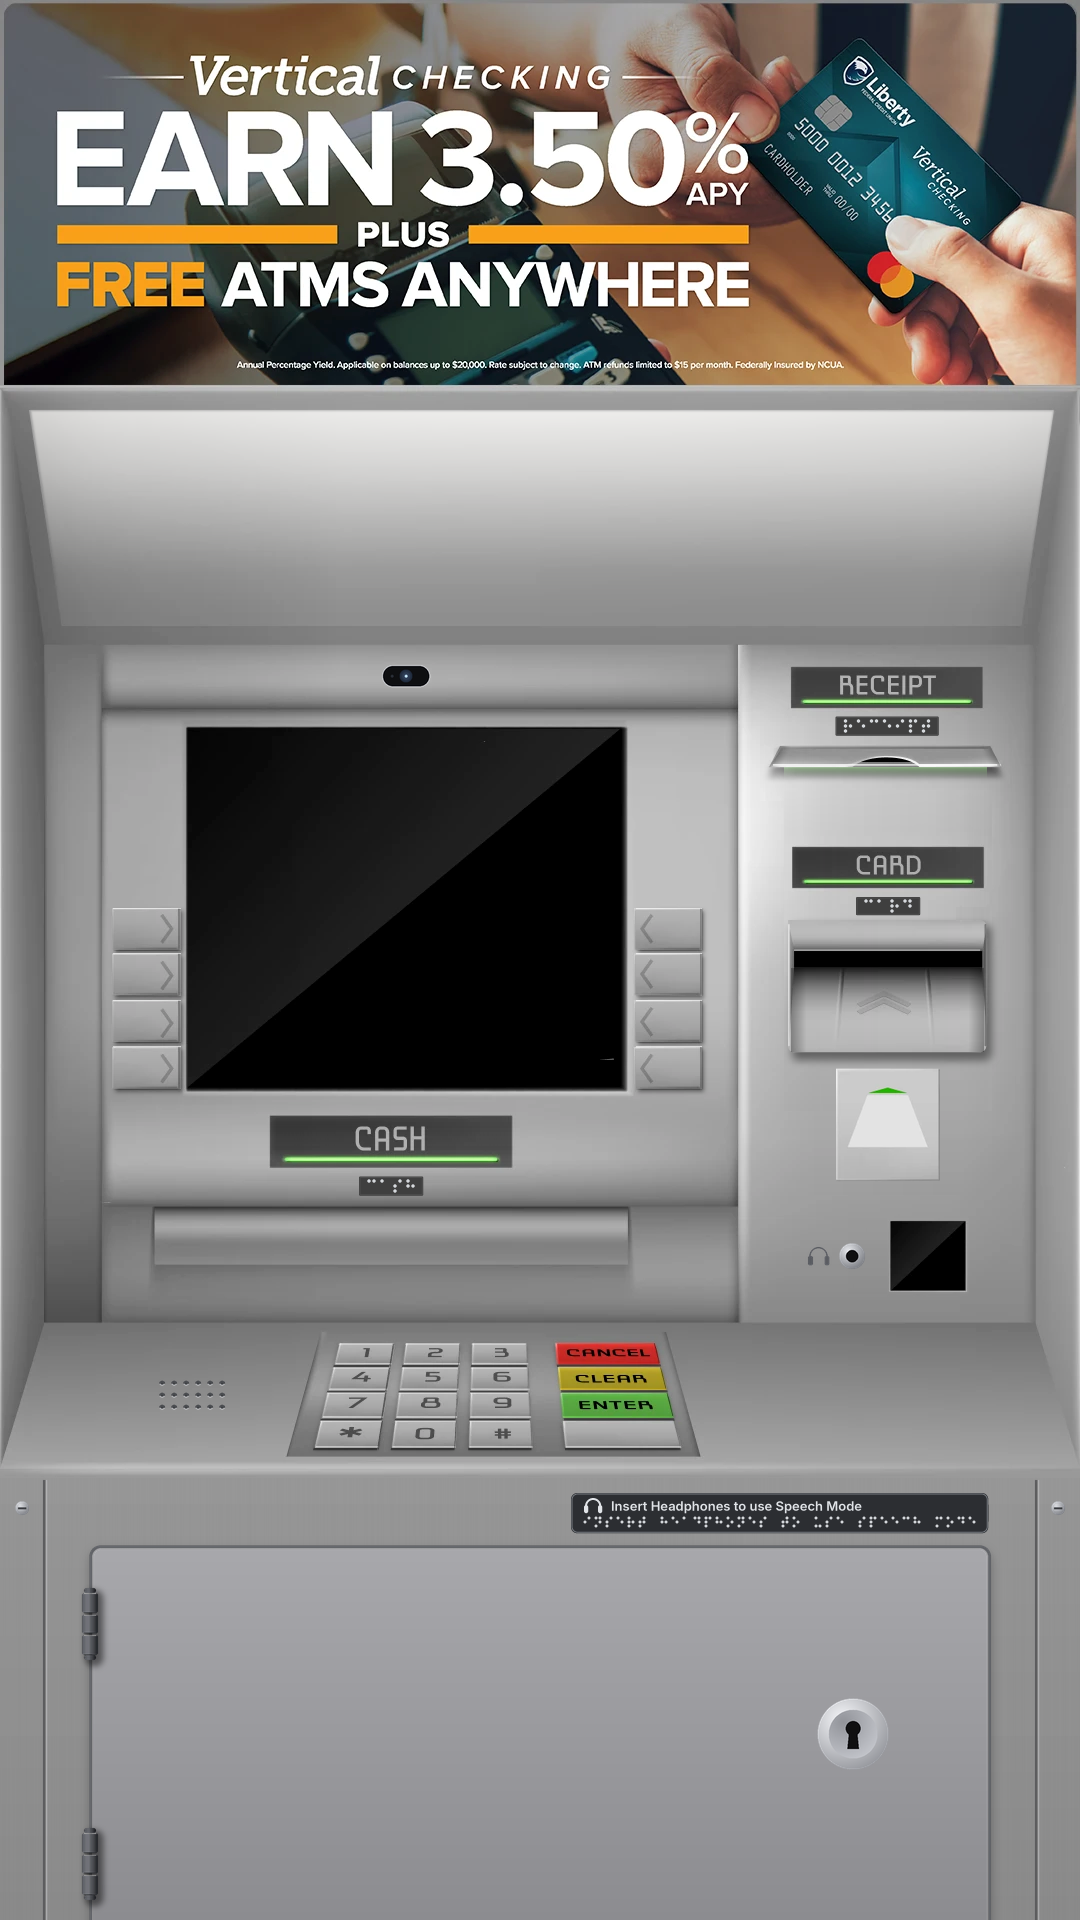
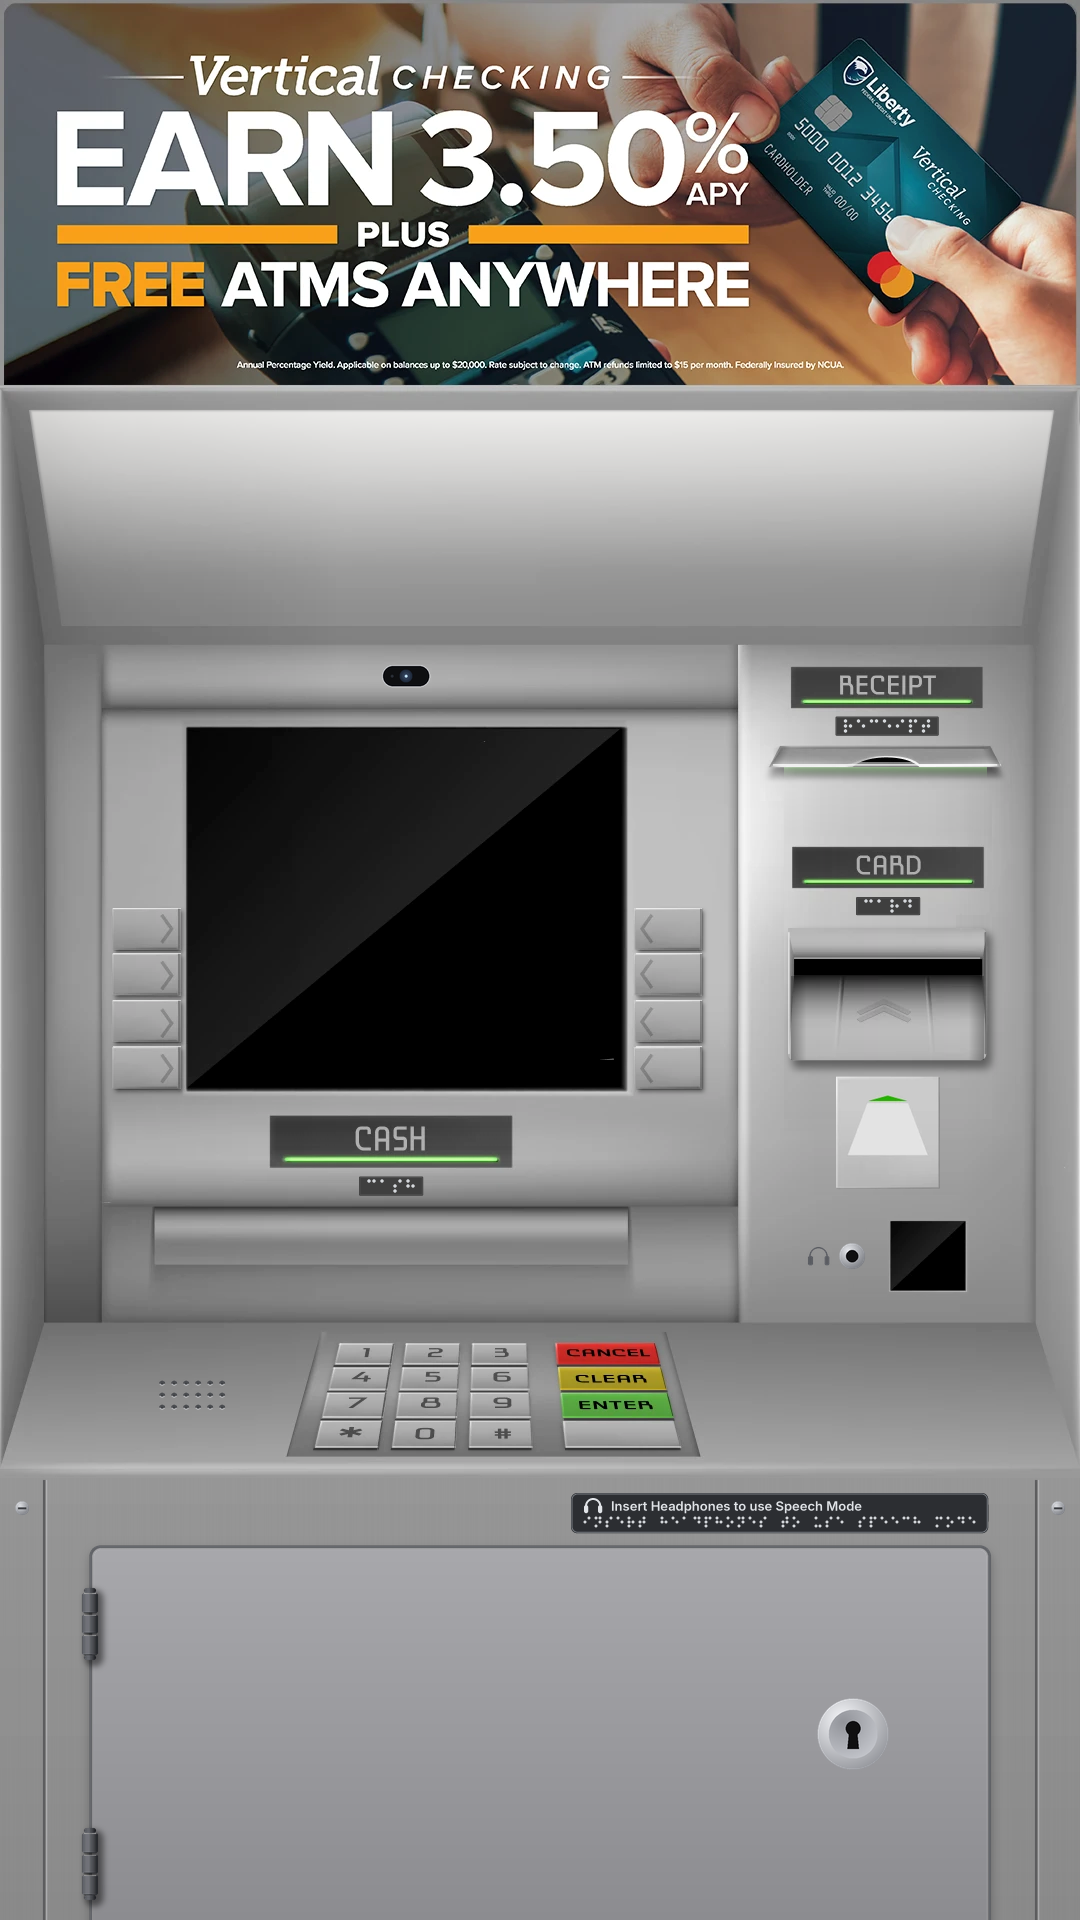
ATM: card slot 8 px lower, clear of the CARD braille plate
The card slot and the card picture under it move 8 px down in the
image; ATMAttract.tsx follows (SLOT_Y 969, rest 1000, the card slot
arrows at y 953). Notes updated.

Claude-Session: https://claude.ai/code/session_01KPvVpTs9ZCdeZuPLiaJADF

Changed region(s): [[0.7333, 0.4688, 0.9167, 0.625]]

diff --git a/ATM/ATMAttract.tsx b/ATM/ATMAttract.tsx
@@ -25,7 +25,7 @@ const useRouter: () => unknown = (Framer as { useRouter?: () => unknown }).useRo
 const W = 1080
 const H = 1920
 const SCREEN = { x: 186, y: 728, w: 441, h: 365 } // the screen in the ATM artwork
-const SLOT_Y = 961 // the card disappears above this line (middle of the card slot's opening)
+const SLOT_Y = 969 // the card disappears above this line (middle of the card slot's opening)
 const SLOT_X = 888 // centre of the card slot
 const CARD_W = 120 // the card, upright: short edge first
 const CARD_H = 190
@@ -290,7 +290,7 @@ export default function ATMAttract(props: Props) {
         const reading = readingRef.current
         if (!card) return
         const from = { y: 2400, s: 1.6 }
-        const rest = 992 // the card's top edge, resting on the slot's ramp
+        const rest = 1000 // the card's top edge, resting on the slot's ramp
         // Times below are written for CARD_SECONDS = 3.1 and scaled to it.
         const at = (sec: number) => (sec * CARD_SECONDS) / 3.1
         const readStart = at(1.7)
@@ -490,10 +490,10 @@ export default function ATMAttract(props: Props) {
                             style={{ left: s.x, top: s.y, width: s.w, height: s.h, animationDelay: `${s.delay}s` }}
                         />
                     ))}
-                    <svg className={`${c("abs")} ${c("chevEl")}`} viewBox="790 945 196 120" style={{ left: 790, top: 945, width: 196, height: 120 }}>
-                        <rect x={796} y={953} width={184} height={15} rx={2} style={{ fill: slotColor, opacity: 0.35 }} />
-                        <polyline points="858,1006 884,991 911,1006" />
-                        <polyline points="858,1015 884,1000 911,1015" />
+                    <svg className={`${c("abs")} ${c("chevEl")}`} viewBox="790 953 196 120" style={{ left: 790, top: 953, width: 196, height: 120 }}>
+                        <rect x={796} y={961} width={184} height={15} rx={2} style={{ fill: slotColor, opacity: 0.35 }} />
+                        <polyline points="858,1014 884,999 911,1014" />
+                        <polyline points="858,1023 884,1008 911,1023" />
                     </svg>
                     <div style={{ position: "absolute", inset: 0, clipPath: `inset(${SLOT_Y}px 0 0 0)`, pointerEvents: "none" }}>
                         <div

diff --git a/ATM/artwork/options.py b/ATM/artwork/options.py
@@ -283,6 +283,9 @@ wgt = np.linspace(0, 1, 963 - 813)[None, :, None]
 a[1040:1195, 813:963, :3] = lft[:, None] * (1 - wgt) + rgt[:, None] * wgt
 move_rows(a, 784, 992, 790, 1110, CARD_DROP)
 CB_Y0, CB_Y1, CO_Y0, CO_Y1 = CB_Y0 + CARD_DROP, CB_Y1 + CARD_DROP, CO_Y0 + CARD_DROP, CO_Y1 + CARD_DROP
+INSERT_DROP = 8  # the card slot alone moves a little further down, clear of the CARD braille plate
+move_rows(a, 784, 992, 892, 1130, INSERT_DROP)  # rows 892 and 1130 are plain panel (label above, nothing below yet)
+CB_Y0, CB_Y1, CO_Y0, CO_Y1 = CB_Y0 + INSERT_DROP, CB_Y1 + INSERT_DROP, CO_Y0 + INSERT_DROP, CO_Y1 + INSERT_DROP
 pic = pic.resize((round(pic.width * PIC_SCALE), round(pic.height * PIC_SCALE)), Image.LANCZOS)
 px0, py0 = round(888 - pic.width / 2), CB_Y1 + 16  # 16 px under the card slot's visible bottom edge (clear of its shadow): part of the card group
 a[py0:py0 + pic.height, px0:px0 + pic.width] = np.array(pic).astype(float)

diff --git a/ATM/NOTES.md b/ATM/NOTES.md
@@ -337,14 +337,14 @@ says.
 
 ### Positions in `ATMAttract.tsx` that follow this image
 
-The current image moved the card group and the CASH label, so these
-were updated to match (measured on the image):
+The current image moved the card group, the card slot and the CASH
+label, so these were updated to match (measured on the image):
 
 | Constant | Was | Now | Why |
 |---|---|---|---|
-| `SLOT_Y` | 921 | 961 | the card slot is 40 px lower |
-| `rest` (in `cardIn`) | 952 | 992 | the card rests 40 px lower, on the slot's ramp |
-| card slot arrows `<svg>` (`top`, `viewBox`, the rect and both chevrons) | y 905 | y 945 | they flash on the slot, 40 px lower |
+| `SLOT_Y` | 921 | 969 | the card slot is 48 px lower (40 with its group, then 8 more) |
+| `rest` (in `cardIn`) | 952 | 1000 | the card rests 48 px lower, on the slot's ramp |
+| card slot arrows `<svg>` (`top`, `viewBox`, the rect and both chevrons) | y 905 | y 953 | they flash on the slot, 48 px lower |
 | `STRIPS` CARD `y` | 853 | 881 | the CARD label is 28 px lower (up 12, then the group down 40) |
 | `STRIPS` CASH `y` | 1168 | 1158 | the CASH label is 10 px higher |
 
@@ -366,7 +366,7 @@ were updated to match (measured on the image):
 | Green on the slots | `options.py`: `SLOT_GREEN` (the **Slot Light** colour, `#7cf25e`) |
 | Braille words, size, plates | `options.py`: `DOTS` (letters), `SPOTS_FINAL` (where), `flat`/`sm` (dot size and spacing), `plate(...)` colours |
 | Speech Mode label | `options.py`: `SENT`, `PW2, PH2, P0, PT` |
-| Spacing of the right panel and cash | `options.py`: `RECEIPT_DROP` (16), `CARD_LABEL_RISE` (12), `CARD_DROP` (40), `PIC_SCALE` (0.78) and the picture's `py0`, `CASH_LABEL_RISE` (10) |
+| Spacing of the right panel and cash | `options.py`: `RECEIPT_DROP` (16), `CARD_LABEL_RISE` (12), `CARD_DROP` (40, the whole card group), `INSERT_DROP` (8, the card slot alone), `PIC_SCALE` (0.78) and the picture's `py0` (follows the slot), `CASH_LABEL_RISE` (10) |
 
 ### Decisions log (the image)
 
@@ -466,6 +466,12 @@ In the order they were made with the designer:
 - **Braille plate gaps**: every braille plate sits **9 px under its
   label**, matching CASH (RECEIPT and CARD were 1-2 px, so they read
   as stuck to their labels). `SPOTS_FINAL` in `options.py`.
+- **Card slot clear of its braille**: the card slot (and the card
+  picture under it) moved 8 px further down (`INSERT_DROP`), so the slot
+  no longer sits right under the CARD braille plate (about 13 px now).
+  The picture keeps its 16 px under the slot and sits about 30 px above
+  the headphone row. `ATMAttract.tsx` follows (`SLOT_Y` 969, `rest`
+  1000, the card slot arrows at y 953).
 
 ## How it was made
 
